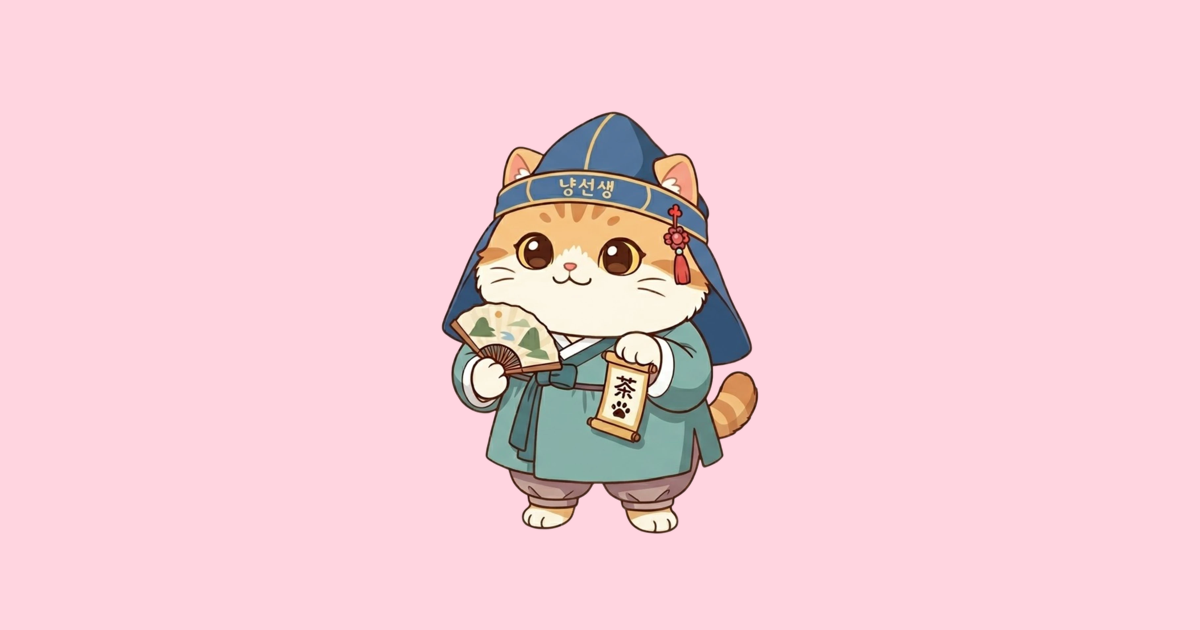
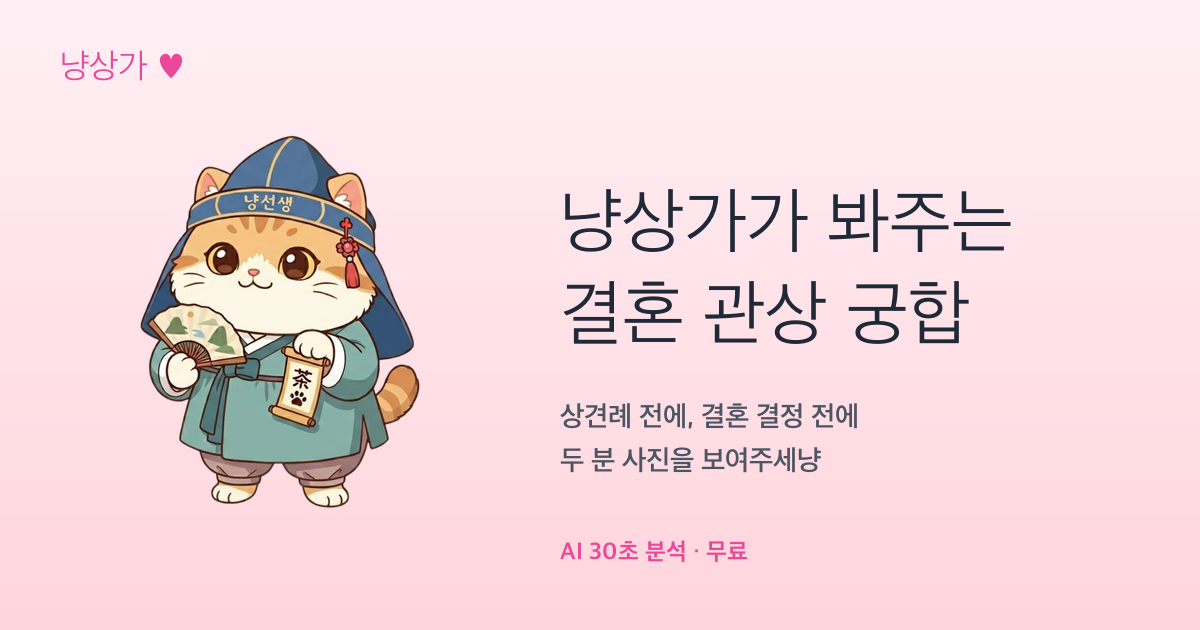
feat: og:image를 hero 섹션 느낌으로 재디자인
기존 캐릭터만 중앙 배치 → 좌측 캐릭터 + 우측 텍스트 구성으로 변경.
메인 페이지 hero와 톤 일치 (핑크 그라데이션 + 타이틀 + 서브카피).

- 좌측: 냥상가 캐릭터 440px
- 상단: "냥상가 ♥" 브랜드 로고
- 우측 타이틀: "냥상가가 봐주는 / 결혼 관상 궁합"
- 우측 서브: "상견례 전에, 결혼 결정 전에 / 두 분 사진을 보여주세냥"
- 하단: "AI 30초 분석 · 무료"

scripts/generate-og-image.py 추가로 재생성 가능.

Changed region(s): [[0.0925, 0.181, 0.8325, 0.9048], [0.0, 0.0, 1.0, 0.1206]]

diff --git a/scripts/generate-og-image.py b/scripts/generate-og-image.py
@@ -1,0 +1,48 @@
+#!/usr/bin/env python3
+"""
+og:image 생성 스크립트 (1200x630 PNG, 메인 hero 섹션 느낌)
+실행: python3 scripts/generate-og-image.py
+출력: public/og-image.png
+"""
+from PIL import Image, ImageDraw, ImageFont
+import os
+
+W, H = 1200, 630
+OUT = 'public/og-image.png'
+CHAR_SRC = 'public/assets/main_logo_char.webp'
+FONT_TTC = '/System/Library/Fonts/Supplemental/AppleSDGothicNeo.ttc'
+
+
+def load_font(size, weight='regular'):
+    idx = {'regular': 3, 'medium': 4, 'bold': 6, 'black': 9}
+    return ImageFont.truetype(FONT_TTC, size, index=idx.get(weight, 3))
+
+
+bg = Image.new('RGB', (W, H), '#FFE8EC')
+px = bg.load()
+for y in range(H):
+    t = y / H
+    px_row = (255, int(240 - (240 - 213) * t), int(245 - (245 - 220) * t))
+    for x in range(W):
+        px[x, y] = px_row
+
+char = Image.open(CHAR_SRC).convert('RGBA')
+char_size = 440
+char = char.resize((char_size, char_size), Image.LANCZOS)
+bg.paste(char, (60, (H - char_size) // 2), char)
+
+draw = ImageDraw.Draw(bg)
+draw.text((60, 48), '냥상가 ♥', font=load_font(34, 'black'), fill='#EC4899')
+
+title_font = load_font(72, 'black')
+draw.text((560, 185), '냥상가가 봐주는', font=title_font, fill='#1F2937')
+draw.text((560, 277), '결혼 관상 궁합', font=title_font, fill='#1F2937')
+
+sub_font = load_font(28, 'medium')
+draw.text((560, 400), '상견례 전에, 결혼 결정 전에', font=sub_font, fill='#4B5563')
+draw.text((560, 444), '두 분 사진을 보여주세냥', font=sub_font, fill='#4B5563')
+
+draw.text((560, 538), 'AI 30초 분석 · 무료', font=load_font(24, 'bold'), fill='#EC4899')
+
+bg.save(OUT, 'PNG', optimize=True)
+print('Generated:', OUT, os.path.getsize(OUT), 'bytes')
